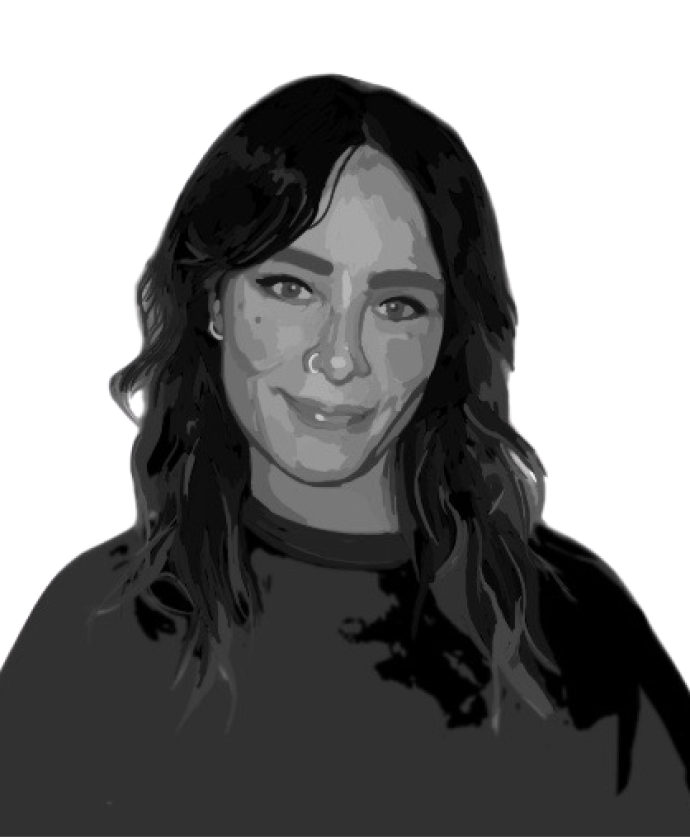
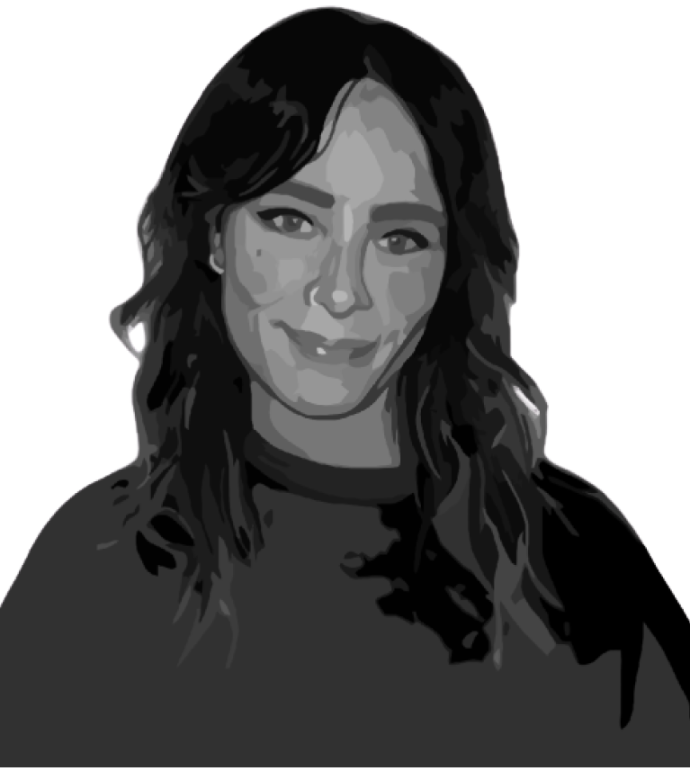
first draft, not done, desktop

diff --git a/css/style.css b/css/style.css
@@ -27,41 +27,26 @@ main {
   font-size: 0.01px;
 }
 .logo img {
-  padding: 15px 0px 0px 0px;
+  padding: 24px 0px 0px 25px;
 }
 .logo img.white {
   display: inline;
 }
-.logo img.yellow {
-  display: none;
-}
 
-.picture-louise {
-  max-width: 100vw;
-}
-.picture-louise picture {
-  max-width: 100vw;
-}
-.picture-louise picture .yellow {
-  display: none;
-}
-.picture-louise picture .white {
-  display: inline;
+.picture-louise img {
+  float: right;
   width: 50vw;
-}
-.picture-louise picture img {
-  width: 100vw;
 }
 
 .info-text {
-  max-width: 100vw;
+  order: 1;
   margin: 0% 3% 10% 2%;
 }
 .info-text .extension-text {
   background-color: #111111;
   color: #CAD5E5;
   cursor: pointer;
-  width: 80vw;
+  width: 40vw;
   border: none;
   text-align: left;
   outline: none;
@@ -106,19 +91,25 @@ h2 {
   font-size: 0.01px;
 }
 
+.frontend-written {
+  order: 2;
+  width: 40vw;
+}
 .frontend-written img.frontend-white {
   max-width: 100vw;
   display: inline;
 }
 
 .flex {
+  order: 3;
   margin-bottom: 20px;
 }
 .flex .portfolio-written {
   width: 40%;
   position: relative;
-  top: 85px;
+  top: 110px;
   z-index: 1;
+  margin-left: 5px;
 }
 .flex .frame {
   margin: 0% 5% 2.5% 5%;
@@ -158,13 +149,21 @@ h2 {
   width: auto;
   margin-top: -22px;
   padding: 20px;
-  color: #CAD5E5;
+  color: rgba(255, 255, 255, 0.65);
   font-size: 20px;
   transition: 0.5s ease;
   -webkit-user-select: none;
      -moz-user-select: none;
       -ms-user-select: none;
           user-select: none;
+}
+.flex .slideshow-container .next:hover {
+  transition: 0.3s ease-in-out;
+  color: white;
+}
+.flex .slideshow-container .prev:hover {
+  transition: 0.3s ease-in-out;
+  color: white;
 }
 .flex .slideshow-container .next {
   right: -7%;
@@ -184,7 +183,8 @@ h2 {
 }
 .flex .active,
 .flex .dot:hover {
-  background-color: #717171;
+  background-color: #CAD5E5;
+  transition: 0.5s ease-out;
 }
 
 footer {
@@ -223,29 +223,20 @@ footer img {
     z-index: 1;
     height: auto;
     position: absolute;
-    margin: 10px 0px 0px 15px;
+    top: 0;
+    margin: 5px 0px 0px 10px;
   }
-  .picture-louise {
+  .picture-louise img {
     display: flex;
     order: 2;
     z-index: -1;
     height: -webkit-fit-content;
     height: -moz-fit-content;
     height: fit-content;
+    width: 100vw;
     margin-top: 10%;
-  }
-  .picture-louise picture .picture-img {
     border-bottom: 2px solid #CAD5E5;
     border-radius: 0.7%;
-  }
-  .picture-louise picture .mobile-pic {
-    width: 100vw;
-  }
-  .picture-louise picture .white {
-    display: none;
-  }
-  .picture-louise picture img {
-    width: 100vw;
   }
   .frontend-written {
     order: 3;

diff --git a/css/style.scss b/css/style.scss
@@ -35,50 +35,49 @@ main {
 
     img {
 
-        padding: 15px 0px 0px 0px;
+        padding: 24px 0px 0px 25px;
 
         &.white {
             display: inline;
-        }
-
-        &.yellow {
-            display: none;
         }
     }
 }
 
 
 .picture-louise {
-    max-width: 100vw;
 
-    picture {
-        max-width: 100vw;
-
-        & .yellow {
-            display: none;
-        }
-
-        & .white {
-            display: inline;
-            width: 50vw;
-        }
-
-        & img {
-            width: 100vw;
-        }
+    img {
+        float: right;
+        width: 50vw;
     }
+
+    // picture {
+    //     max-width: 100vw;
+
+    //     & .mobile-pic {
+    //         display: none;
+    //     }
+
+    //     & .white {
+    //         display: inline;
+    //         width: 50vw;
+    //     }
+
+    // & img {
+    //     width: 100vw;
+    // }
 }
 
 
 .info-text {
-    max-width: 100vw;
+    order: 1;
     margin: 0% 3% 10% 2%;
 
     .extension-text {
         background-color: $background-color;
         color: $text-color;
         cursor: pointer;
-        width: 80vw;
+        width: 40vw;
         border: none;
         text-align: left;
         outline: none;
@@ -137,24 +136,27 @@ h2 {
 
 
 .frontend-written {
+    order: 2;
+    width: 40vw;
 
-    img {
-        &.frontend-white {
-            max-width: 100vw;
-            display: inline;
-        }
+    img.frontend-white {
+        max-width: 100vw;
+        display: inline;
     }
+
 }
 
 
 .flex {
+    order: 3;
     margin-bottom: 20px;
 
     .portfolio-written {
         width: 40%;
         position: relative;
-        top: 85px;
+        top: 110px;
         z-index: 1;
+        margin-left: 5px;
     }
 
     .frame {
@@ -202,11 +204,24 @@ h2 {
             width: auto;
             margin-top: -22px;
             padding: 20px;
-            color: $text-color;
+            color: rgba(255, 255, 255, 0.650);
             font-size: 20px;
             transition: 0.5s ease;
             user-select: none;
         }
+
+
+        .next:hover {
+            transition: 0.3s ease-in-out;
+            color: white;
+        }
+
+
+        .prev:hover {
+            transition: 0.3s ease-in-out;
+            color: white;
+        }
+
 
         .next {
             right: -7%;
@@ -231,7 +246,8 @@ h2 {
 
     .active,
     .dot:hover {
-        background-color: #717171;
+        background-color: $text-color;
+        transition: 0.5s ease-out;
     }
 }
 

diff --git a/css/_mobileless767.scss b/css/_mobileless767.scss
@@ -16,7 +16,8 @@
                 z-index: 1;
                 height: auto;
                 position: absolute;
-                margin: 10px 0px 0px 15px;
+                top: 0;
+                margin: 5px 0px 0px 10px;
             }
 
         }
@@ -24,31 +25,37 @@
 
 
     .picture-louise {
-        display: flex;
-        order: 2;
-        z-index: -1;
-        height: fit-content;
-        margin-top: 10%;
 
-        picture {
-
-            & .picture-img {
-                border-bottom: 2px solid $text-color;
-                border-radius: 0.7%;
-            }
-
-            & .mobile-pic {
-                width: 100vw;
-            }
-
-            & .white {
-                display: none;
-            }
-
-            img {
-                width: 100vw;
-            }
+        img {
+            display: flex;
+            order: 2;
+            z-index: -1;
+            height: fit-content;
+            width: 100vw;
+            margin-top: 10%;
+            border-bottom: 2px solid $text-color;
+            border-radius: 0.7%;
         }
+
+        // picture {
+
+        //     & .picture-img {
+        //         border-bottom: 2px solid $text-color;
+        //         border-radius: 0.7%;
+        //     }
+
+        //     & .mobile-pic {
+        //         width: 100vw;
+        //     }
+
+        //     & .white {
+        //         display: none;
+        //     }
+
+        //     img {
+        //         width: 100vw;
+        //     }
+        // }
     }
 
 
@@ -56,12 +63,9 @@
     .frontend-written {
         order: 3;
 
-        img {
-
-            &.frontend-white {
-                width: 80vw;
-                padding: 5% 0% 0% 5%;
-            }
+        img.frontend-white {
+            width: 80vw;
+            padding: 5% 0% 0% 5%;
         }
     }
 

diff --git a/CV.html b/CV.html
@@ -14,17 +14,16 @@
         <div class="wrapper">
             <div class="logo">
                 <h1>Louise Murray</h1>
-                <img class="yellow" src="img/logo-louise-yellow.png" alt="yellow logo">
                 <img class="white" src="img/logo-louise-white.png" alt="white logo">
             </div>
             <div class="picture-louise">
-                <picture>
-                    <source class="mobile-pic" media="(max-width: 767px)" srcset="img/no-tie-mobile.png"
-                        alt="Louise drawn cartoon like" />
-                    <source class="white" media="(min-width: 768px)" srcset="img/no-tie-louise.png"
-                        alt="Louise drawn cartoon like" />
-                    <img class="picture-img" src="img/no-tie-louise.png" alt="Louise drawn cartoon like" />
-                </picture>
+                <img srcset="img/no-tie-mobile.png 767w, img/no-tie-louise 690w" sizes="(max-width: 767px) 767px, 690px"
+                    src="img/no-tie-mobile.png" alt="cartoon like drawing of a girll" />
+                <!-- <source class="mobile-pic" media="(max-width: 767px)" srcset="img/no-tie-mobile.png"
+                    alt="Louise drawn cartoon like" />
+                <source class="white" media="(min-width: 768px)" srcset="img/no-tie-louise.png"
+                    alt="Louise drawn cartoon like" />
+                <img class="picture-img" src="img/no-tie-louise.png" alt="Louise drawn cartoon like" /> -->
             </div>
             <div class="info-text">
                 <button type="button" class="extension-text">let me be an asset</button>
